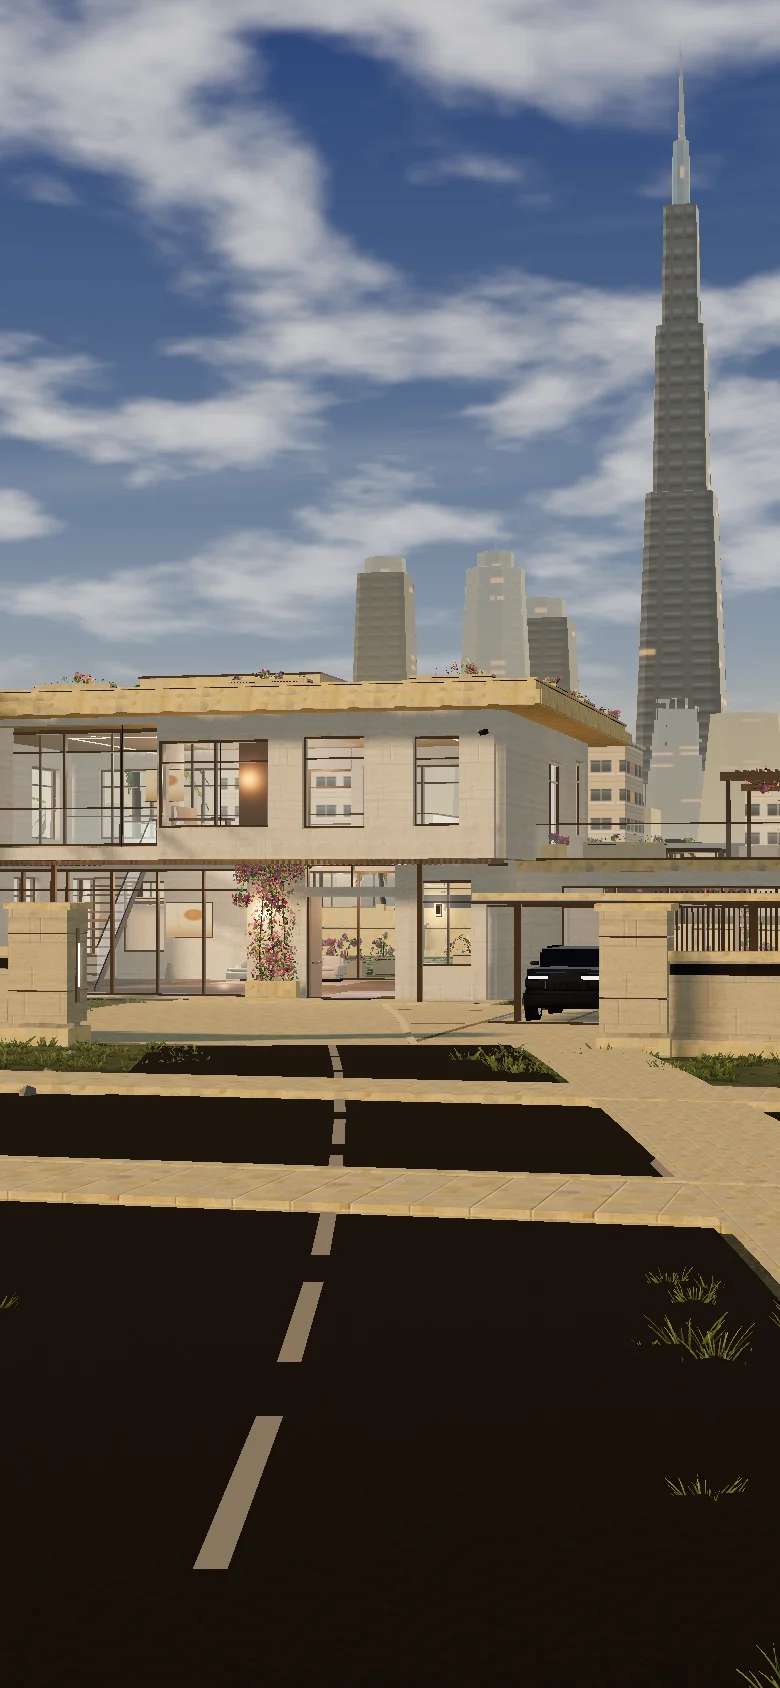
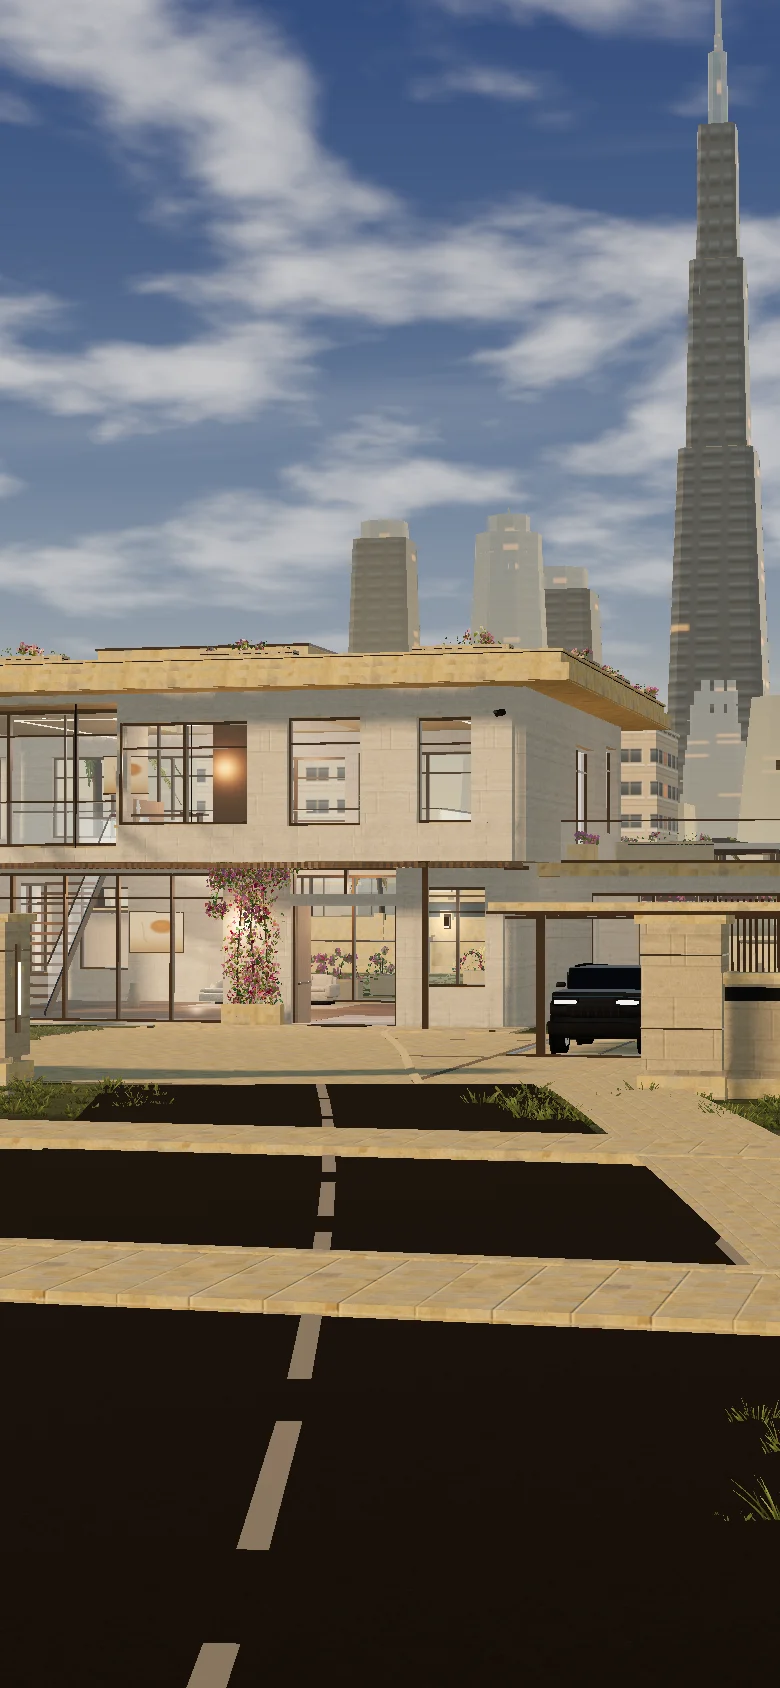
3D: portrait frames the house, not the road
A 1.46x portrait field of view fitted the facade with room to spare and gave a
third of a phone screen to empty asphalt. 1.30 crops to the building and still
holds the porch, the vine and the garage bay; the still is re-rendered to match.

diff --git a/walkthrough/scene.js b/walkthrough/scene.js
@@ -8603,7 +8603,12 @@ function applyCamera(t, dt) {
   if (!REDUCED && opts.interactive) { camera.rotateY(lookYaw); camera.rotateX(lookPitch); }
 
   const aspect = camera.aspect;
-  const portrait = aspect < 1.1 ? lerp(1, 1.46, clamp((1.1 - aspect) / 0.7)) : 1;
+  /*  A portrait frame multiplies the vertical field of view so a 18.7 m facade
+      still fits the width. 1.46 fitted it with room to spare and left a third
+      of a phone screen as empty road under the house; 1.30 crops the frame to
+      the building, which is how the approach reads in a portrait editorial
+      shot, and still holds the whole porch, the vine and the garage bay. */
+  const portrait = aspect < 1.1 ? lerp(1, 1.30, clamp((1.1 - aspect) / 0.7)) : 1;
   const f = fov * portrait;
   if (Math.abs(camera.fov - f) > 0.01) { camera.fov = f; camera.updateProjectionMatrix(); }
 
@@ -8611,7 +8616,7 @@ function applyCamera(t, dt) {
      view ray on the exterior half of the take, so a 30 m facade still fits the
      frame at the approach and the door is centred by the time we reach it */
   if (portrait > 1.02 && t < 0.48) {
-    const k = 1 + 0.06 * portrait * (1 - smoothstep(0.26, 0.47, t));
+    const k = 1 + 0.035 * portrait * (1 - smoothstep(0.26, 0.47, t));
     tmpPos.sub(tmpTgt).multiplyScalar(k).add(tmpTgt);
     camera.position.copy(tmpPos);
   }
